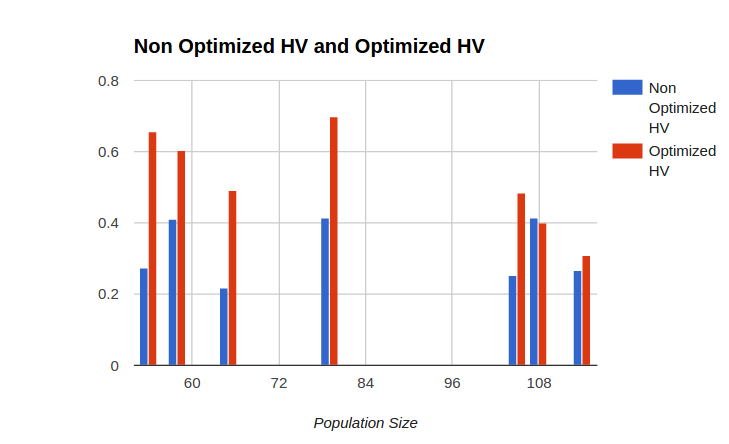
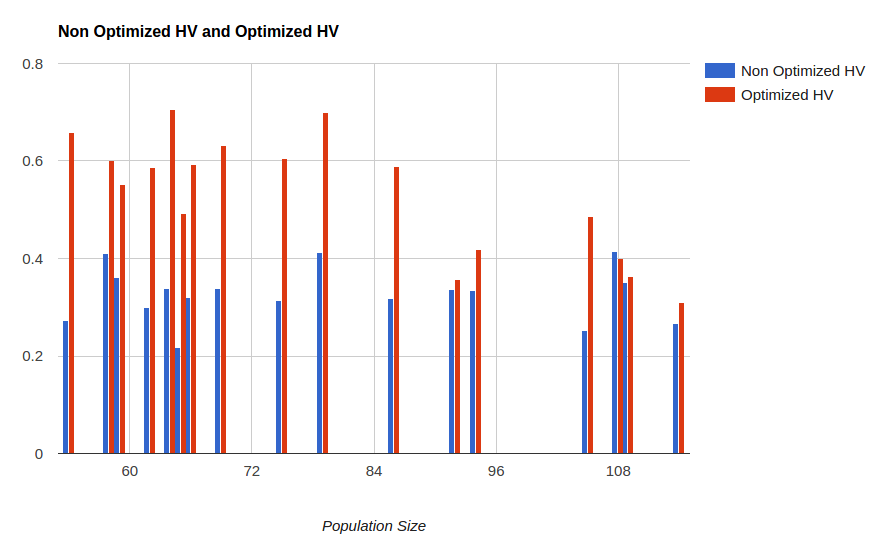
Updated graphs + raw_data

diff --git a/hw/code/10/data/raw_data.md b/hw/code/10/data/raw_data.md
@@ -1,0 +1,23 @@
+|Population Size|Mutation Probability|Cross Over Points| Optimized HV||Non Optimized HV|
+|----|----|----|----|----|
+|54|0.01169892217| 4| 0.65777| 0.27298|
+|58|0.02278676363| 3| 0.6018|0.41017|
+|59|0.008528440401|3| 0.55241| 0.36004|
+|62|0.01704099814| 3| 0.49885| 0.29874|
+|62|0.03142190123| 2| 0.58719| 0.2684|
+|64|0.01981254091| 2| 0.5491|0.32893|
+|64|0.01741474626| 2| 0.7048|0.33827|
+|65|0.02445000185| 4| 0.49234| 0.21704|
+|66|0.03133028336| 3| 0.59301| 0.31921|
+|69|0.02126214667| 2| 0.63186| 0.33945|
+|75|0.01260053358| 1| 0.60418| 0.31433|
+|79|0.01515966012| 3| 0.69856| 0.41255|
+|79|0.005370018801|3| 0.69843| 0.26824|
+|86|0.01044000238| 2| 0.58812| 0.31873|
+|86|0.01183051333| 3| 0.50728| 0.22904|
+|92|0.7633540653||3| 0.35784| 0.33695|
+|94|0.5575640754||2| 0.4184|0.3342|
+|105| 0.00262808339| 3| 0.48545| 0.25325|
+|108| 0.5096189187|3| 0.40026| 0.41458|
+|109| 0.4982304524|2| 0.36306| 0.35114|
+|114| 0.7883382525|2| 0.30952| 0.26685|
